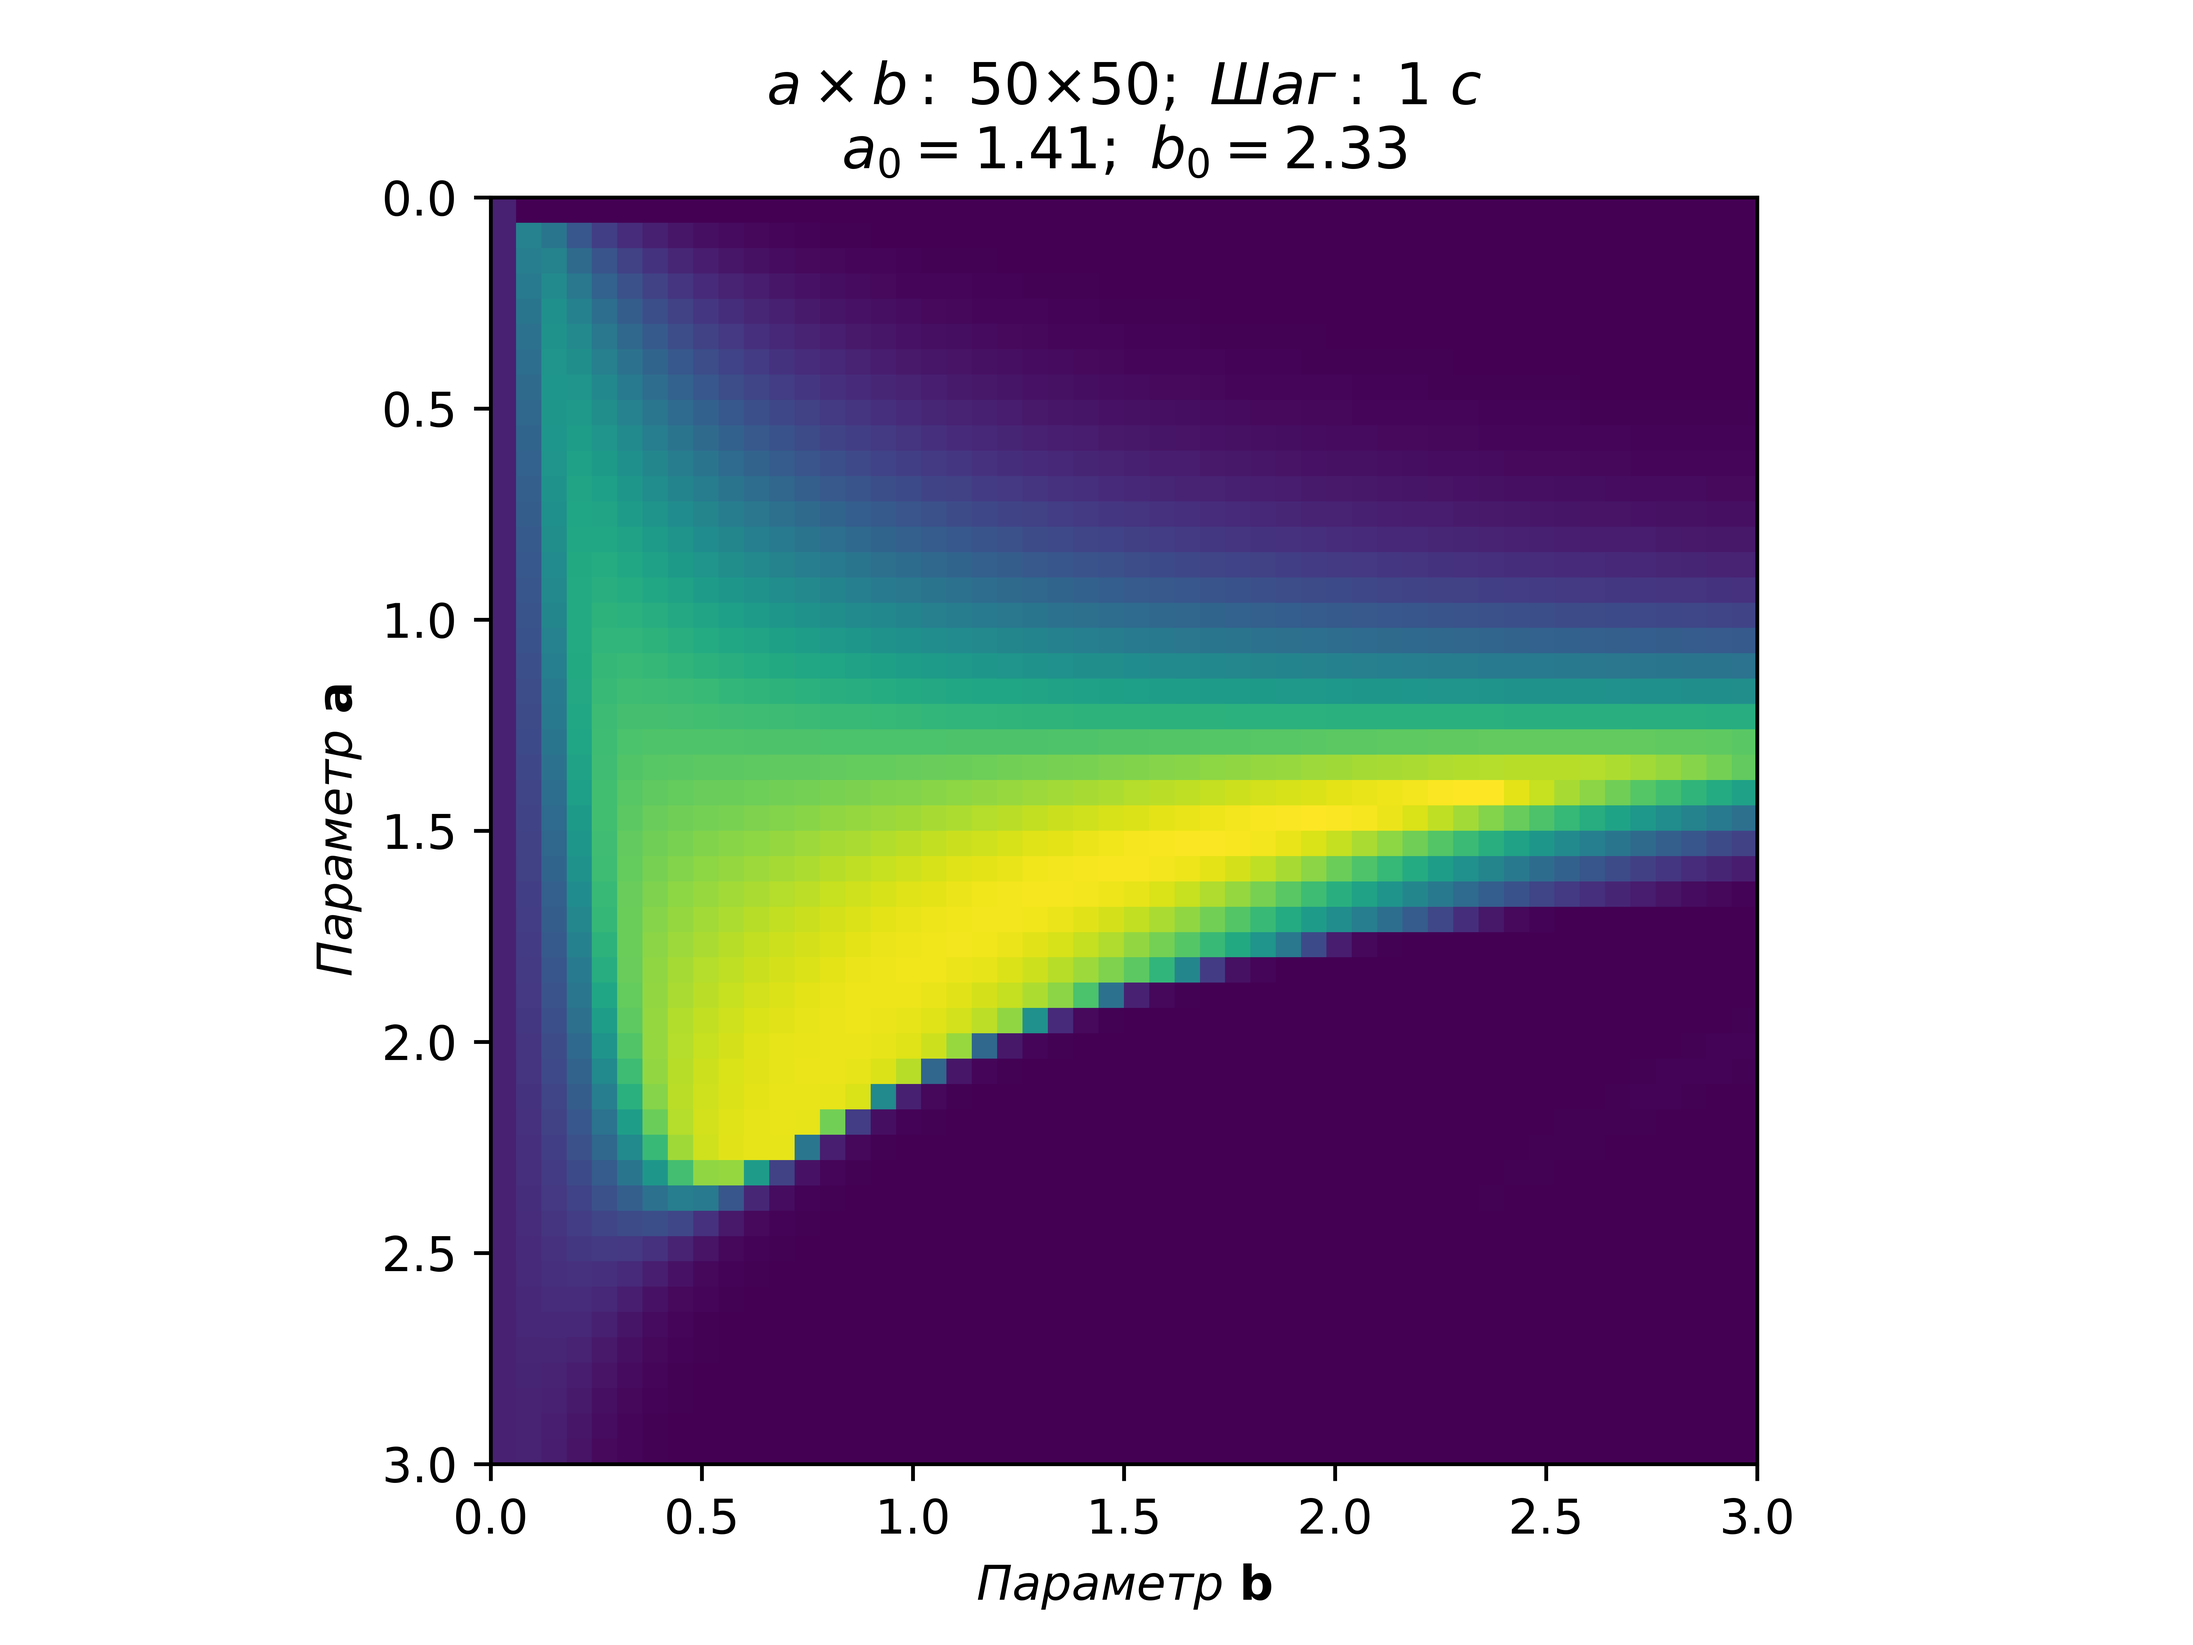
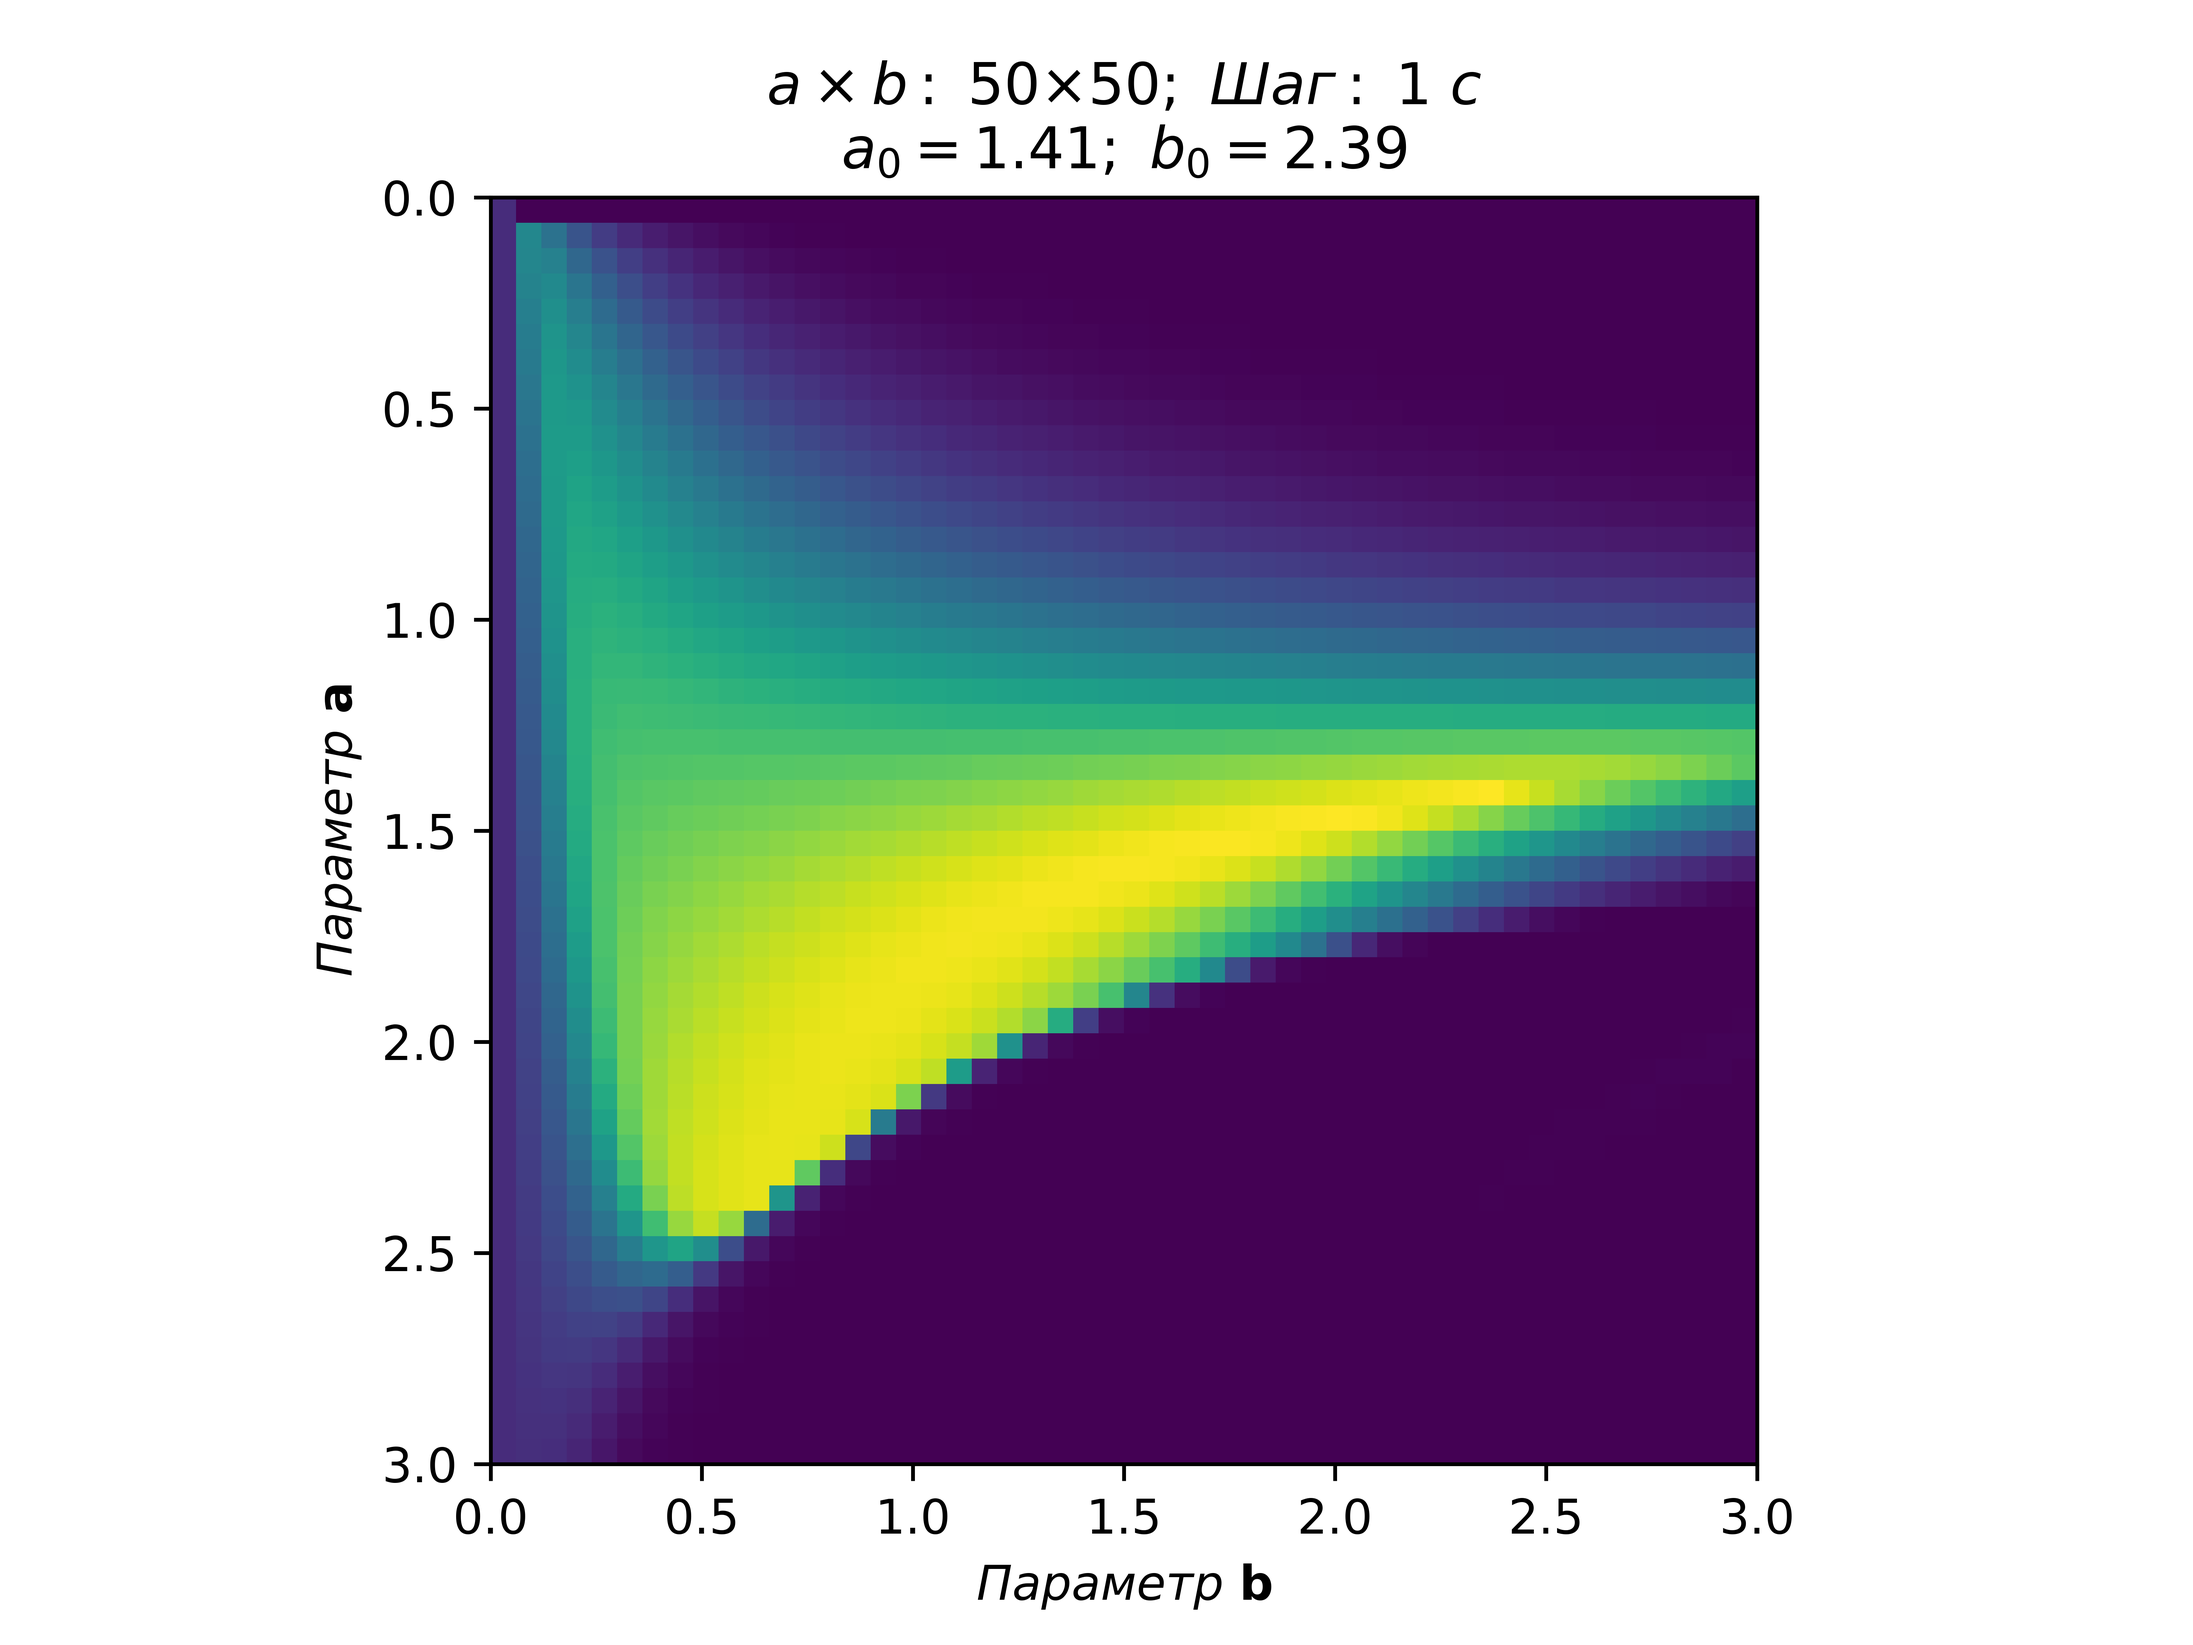
newton -> scipy solver

Changed region(s): [[0.25, 0.5312, 0.625, 0.8438]]

diff --git a/solver.py b/solver.py
@@ -1,5 +1,6 @@
 import math as m
 import numpy as np
+from scipy.integrate import solve_ivp
 
 # Astronomical constants
 GM = 6.672e-11 * 5.972e24
@@ -33,47 +34,37 @@ def cross(a, b):
     return np.cross(a, b)
 
 
-def calculate_solution(a, b, time_step):
-    n_steps = int(burn_time / time_step)
+def ivp_rhs(_, state, a, b):
+    r = state[:3]
+    v = state[3:6]
+    mass = state[-1]
 
+    r_abs = np.linalg.norm(r)
+
+    acc_grav = -r * GM / r_abs ** 3
+
+    burn_completion = 1 - (mass - dry_mass) / fuel_mass
+    angle = 0.5 * m.pi + (a * burn_completion) ** b
+    thrust_dir = np.array([m.cos(angle), m.sin(angle), 0])
+    acc_thrust = thrust_dir * thrust_force / mass
+
+    acc_centrifugal = -cross(W, cross(W, r))
+    acc_coriolis = -2 * cross(W, v)
+
+    air_density = get_air_density_at(r_abs)
+    acc_drag = -0.5 * cd * air_density * np.linalg.norm(v) * v * area / mass
+
+    acc = acc_grav + acc_thrust + acc_centrifugal + acc_coriolis + acc_drag
+
+    return np.concatenate((v, acc, np.array([-mu])))
+
+
+def calculate_solution(a, b, max_step):
     r0 = np.array([0.0, R, 0.0])
     v0 = np.zeros(3)
+    mass0 = dry_mass + fuel_mass
+    state0 = np.concatenate((r0, v0, np.array([mass0])))
 
-    mass = dry_mass + fuel_mass
+    solution = solve_ivp(ivp_rhs, [0, fuel_mass / mu], state0, max_step=max_step, args=(a, b))
 
-    rs = np.zeros((n_steps, 3))
-    vs = np.zeros((n_steps, 3))
-    rs[0], vs[0] = r0, v0
-
-    for step in range(n_steps - 1):
-        r = rs[step]
-        v = vs[step]
-
-        r_abs = np.linalg.norm(r)
-
-        a_grav = -r * GM / r_abs ** 3
-
-        a_thrust = np.zeros(3)
-
-        if mass > dry_mass:
-            burn_completion = 1 - (mass - dry_mass) / fuel_mass
-            angle = m.pi / 2 + (a * burn_completion) ** b
-            thrust_dir = np.array([m.cos(angle), m.sin(angle), 0])
-            a_thrust = thrust_dir * thrust_force / mass
-            mass -= mu * time_step
-
-        a_centrifugal = cross(W, cross(W, r))
-        a_coriolis = 2 * cross(W, v)
-
-        air_density = get_air_density_at(r_abs)
-        a_drag = -cd * air_density * np.linalg.norm(v) * v * area / 2 / mass
-
-        acceleration = a_grav + a_thrust + a_centrifugal + a_coriolis + a_drag
-
-        v += acceleration * time_step
-        r += v * time_step
-
-        rs[step + 1] = r
-        vs[step + 1] = v
-
-    return rs, vs
+    return solution.y[:6]

diff --git a/main.py b/main.py
@@ -2,17 +2,17 @@ import numpy as np
 import matplotlib.pyplot as plt
 
 from solver import calculate_solution
-from plotter import State
+from plotter import Launch
 
-time_step = 1
+max_step = 1
 
 a_min = 0
 a_max = 3
-a_count = 100
+a_count = 50
 
 b_min = 0
 b_max = 3
-b_count = 100
+b_count = 50
 
 A = np.linspace(a_min, a_max, a_count)
 B = np.linspace(b_min, b_max, b_count)
@@ -23,8 +23,8 @@ data = np.empty((a_count, b_count))
 
 for i in range(a_count):
     for j in range(b_count):
-        state = State(calculate_solution(A[i], B[j], time_step))
-        data[i][j] = state.get_perigee()
+        launch = Launch(calculate_solution(A[i], B[j], max_step))
+        data[i][j] = launch.get_perigee()
     print(f'{round(i / a_count * 100, 1)} %')
 
 a_optimal_index, b_optimal_index = np.unravel_index(np.argmax(data), data.shape)
@@ -35,11 +35,11 @@ ax.set_aspect((b_max - b_min) / (a_max - a_min))
 ax.set_xlabel(r'$Параметр\ \bf{b}$')
 ax.set_ylabel(r'$Параметр\ \bf{a}$')
 ax.set_title(r'$a\times b:$ ' + f'{a_count}' + r'$\times$' + f'{b_count}' +
-             r'$;\ Шаг:\ $' + f'{time_step} ' + r'$с$' + '\n' +
+             r'$;\ Шаг:\ $' + f'{max_step} ' + r'$с$' + '\n' +
              r'$a_{0}=$' + f'{round(float(a_optimal), 2)}' + r'$;\ b_{0}=$' + f'{round(float(b_optimal), 2)}')
 
-fig.savefig(f'results/{a_count}x{b_count}_{a_min}-{a_max}_{b_min}-{b_max}_{time_step}s.png', dpi=1000)
+fig.savefig(f'results/{a_count}x{b_count}_{a_min}-{a_max}_{b_min}-{b_max}_{max_step}s.png', dpi=1000)
 
-optimal_state = State(calculate_solution(a_optimal, b_optimal, time_step))
+optimal_state = LaunchAttempt(calculate_solution(a_optimal, b_optimal, max_step))
 optimal_state.plot_orbit()
 optimal_state.animate_launch()

diff --git a/plotter.py b/plotter.py
@@ -26,11 +26,11 @@ def pol2cart(rho, phi):
     return x, y
 
 
-class State:
+class Launch:
     def __init__(self, state):
-        self.rs = state[0]
-        self.vs = state[1]
-        self.count = self.rs.size
+        self.rs = np.transpose(state[:3])
+        self.vs = np.transpose(state[3:])
+        self.count = state.shape[0]
 
         self.rf = self.rs[-1]
         self.vf = self.vs[-1]
